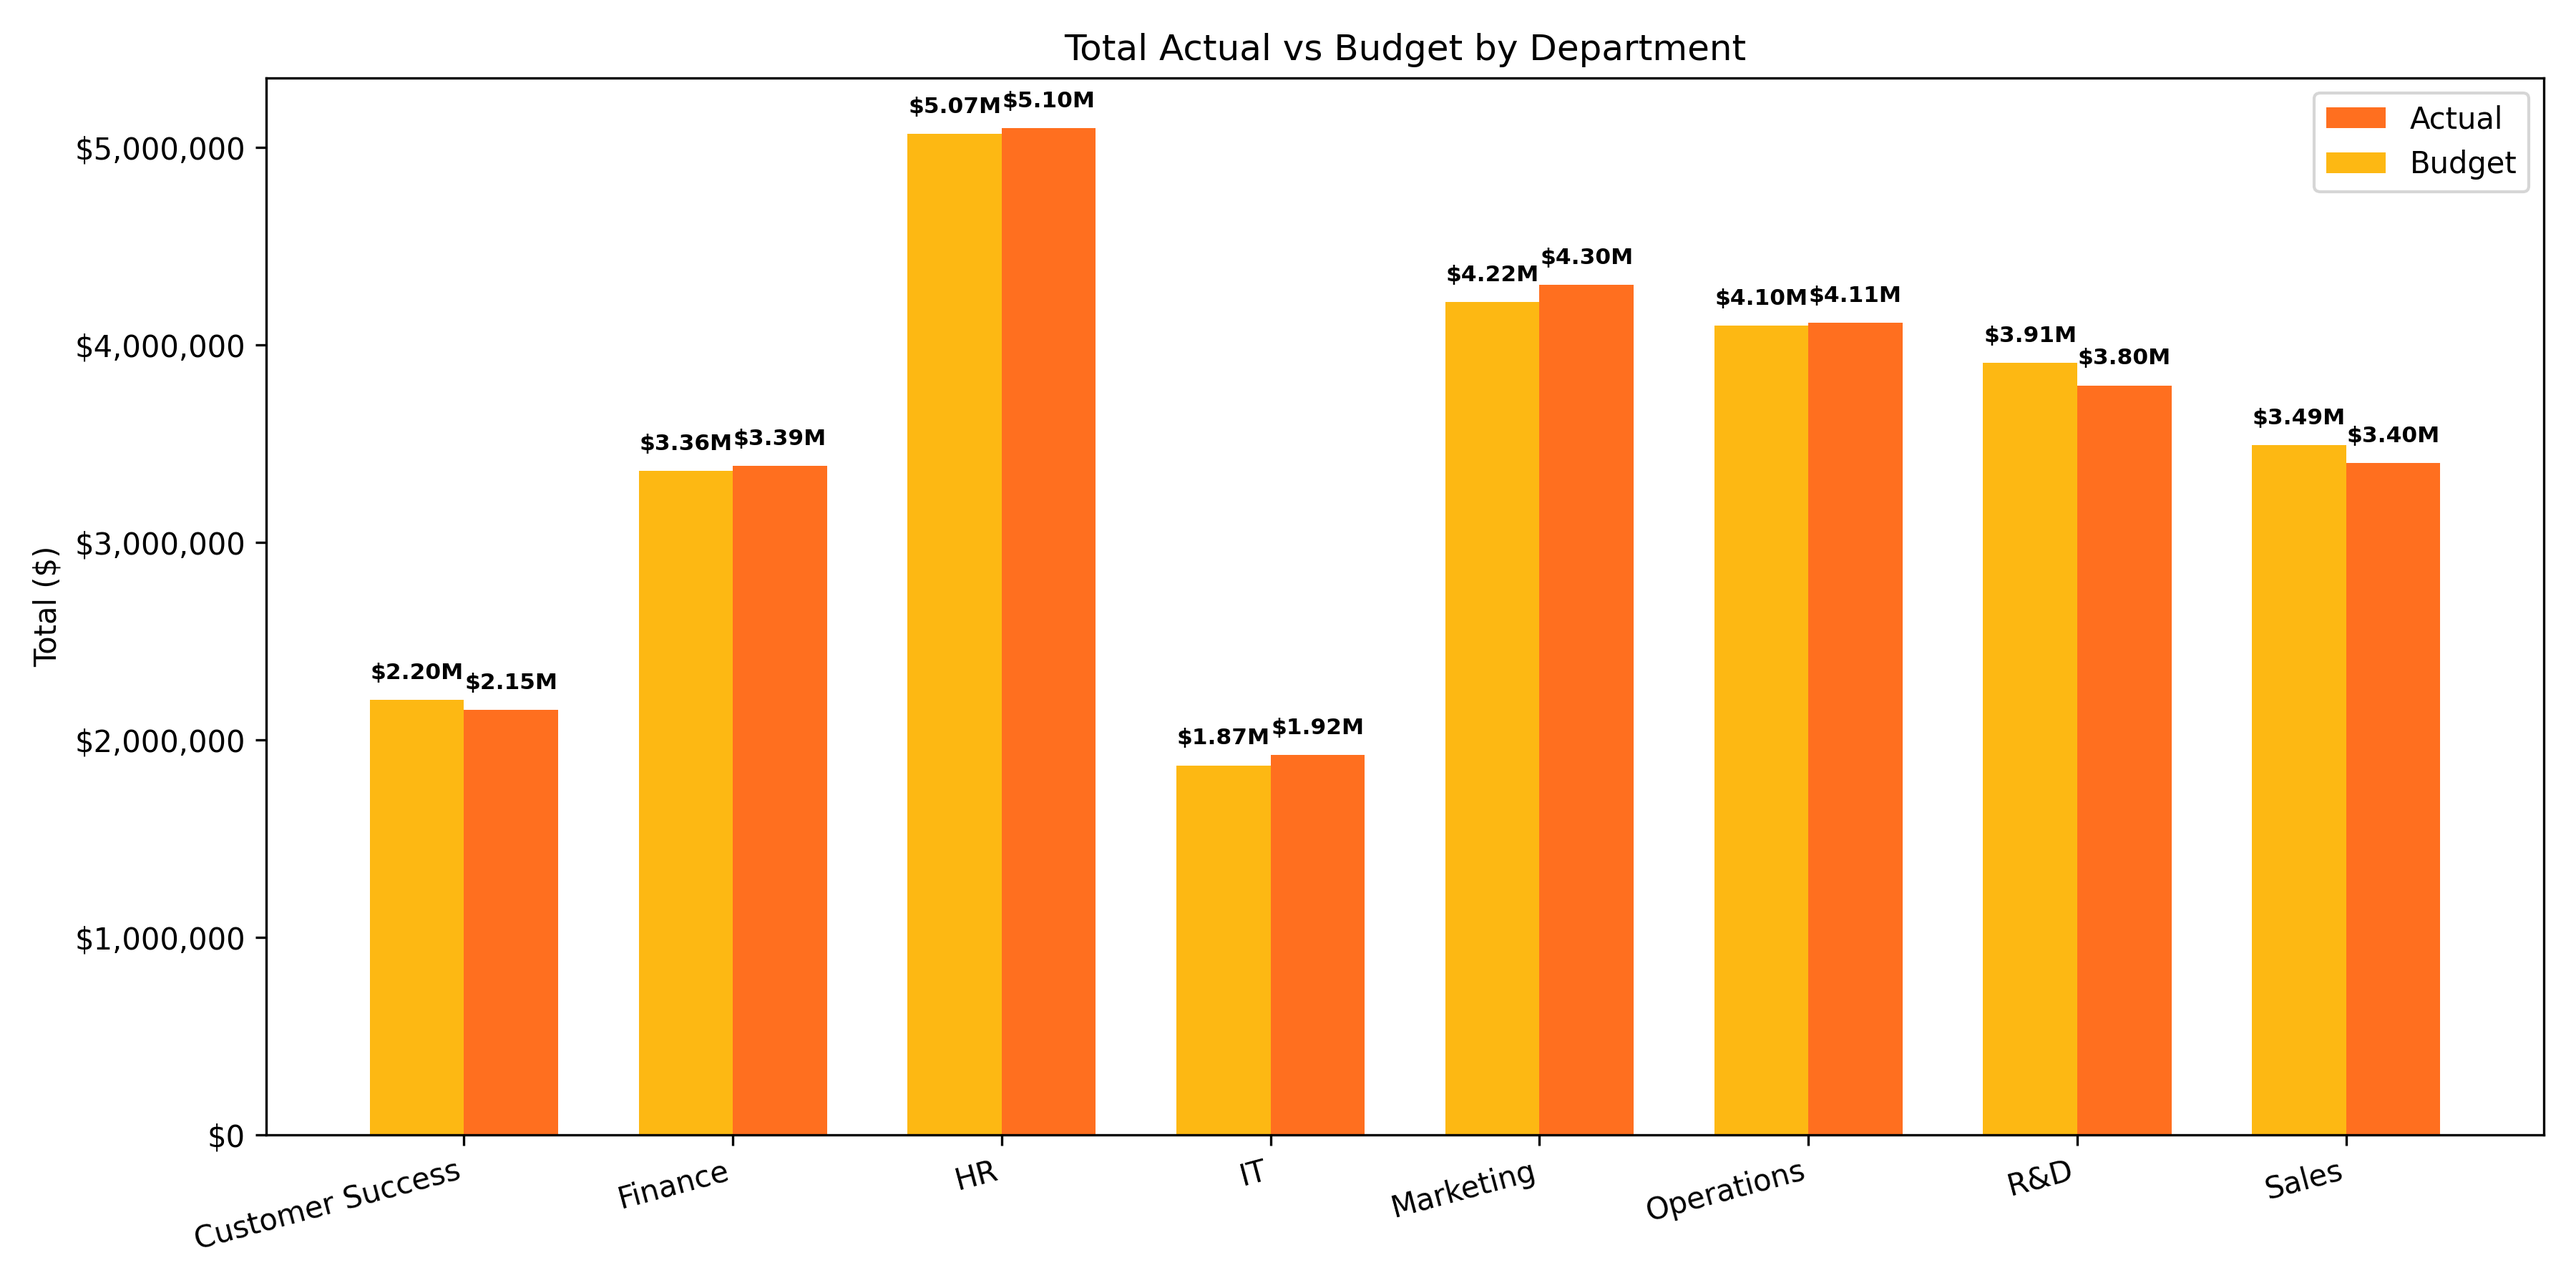
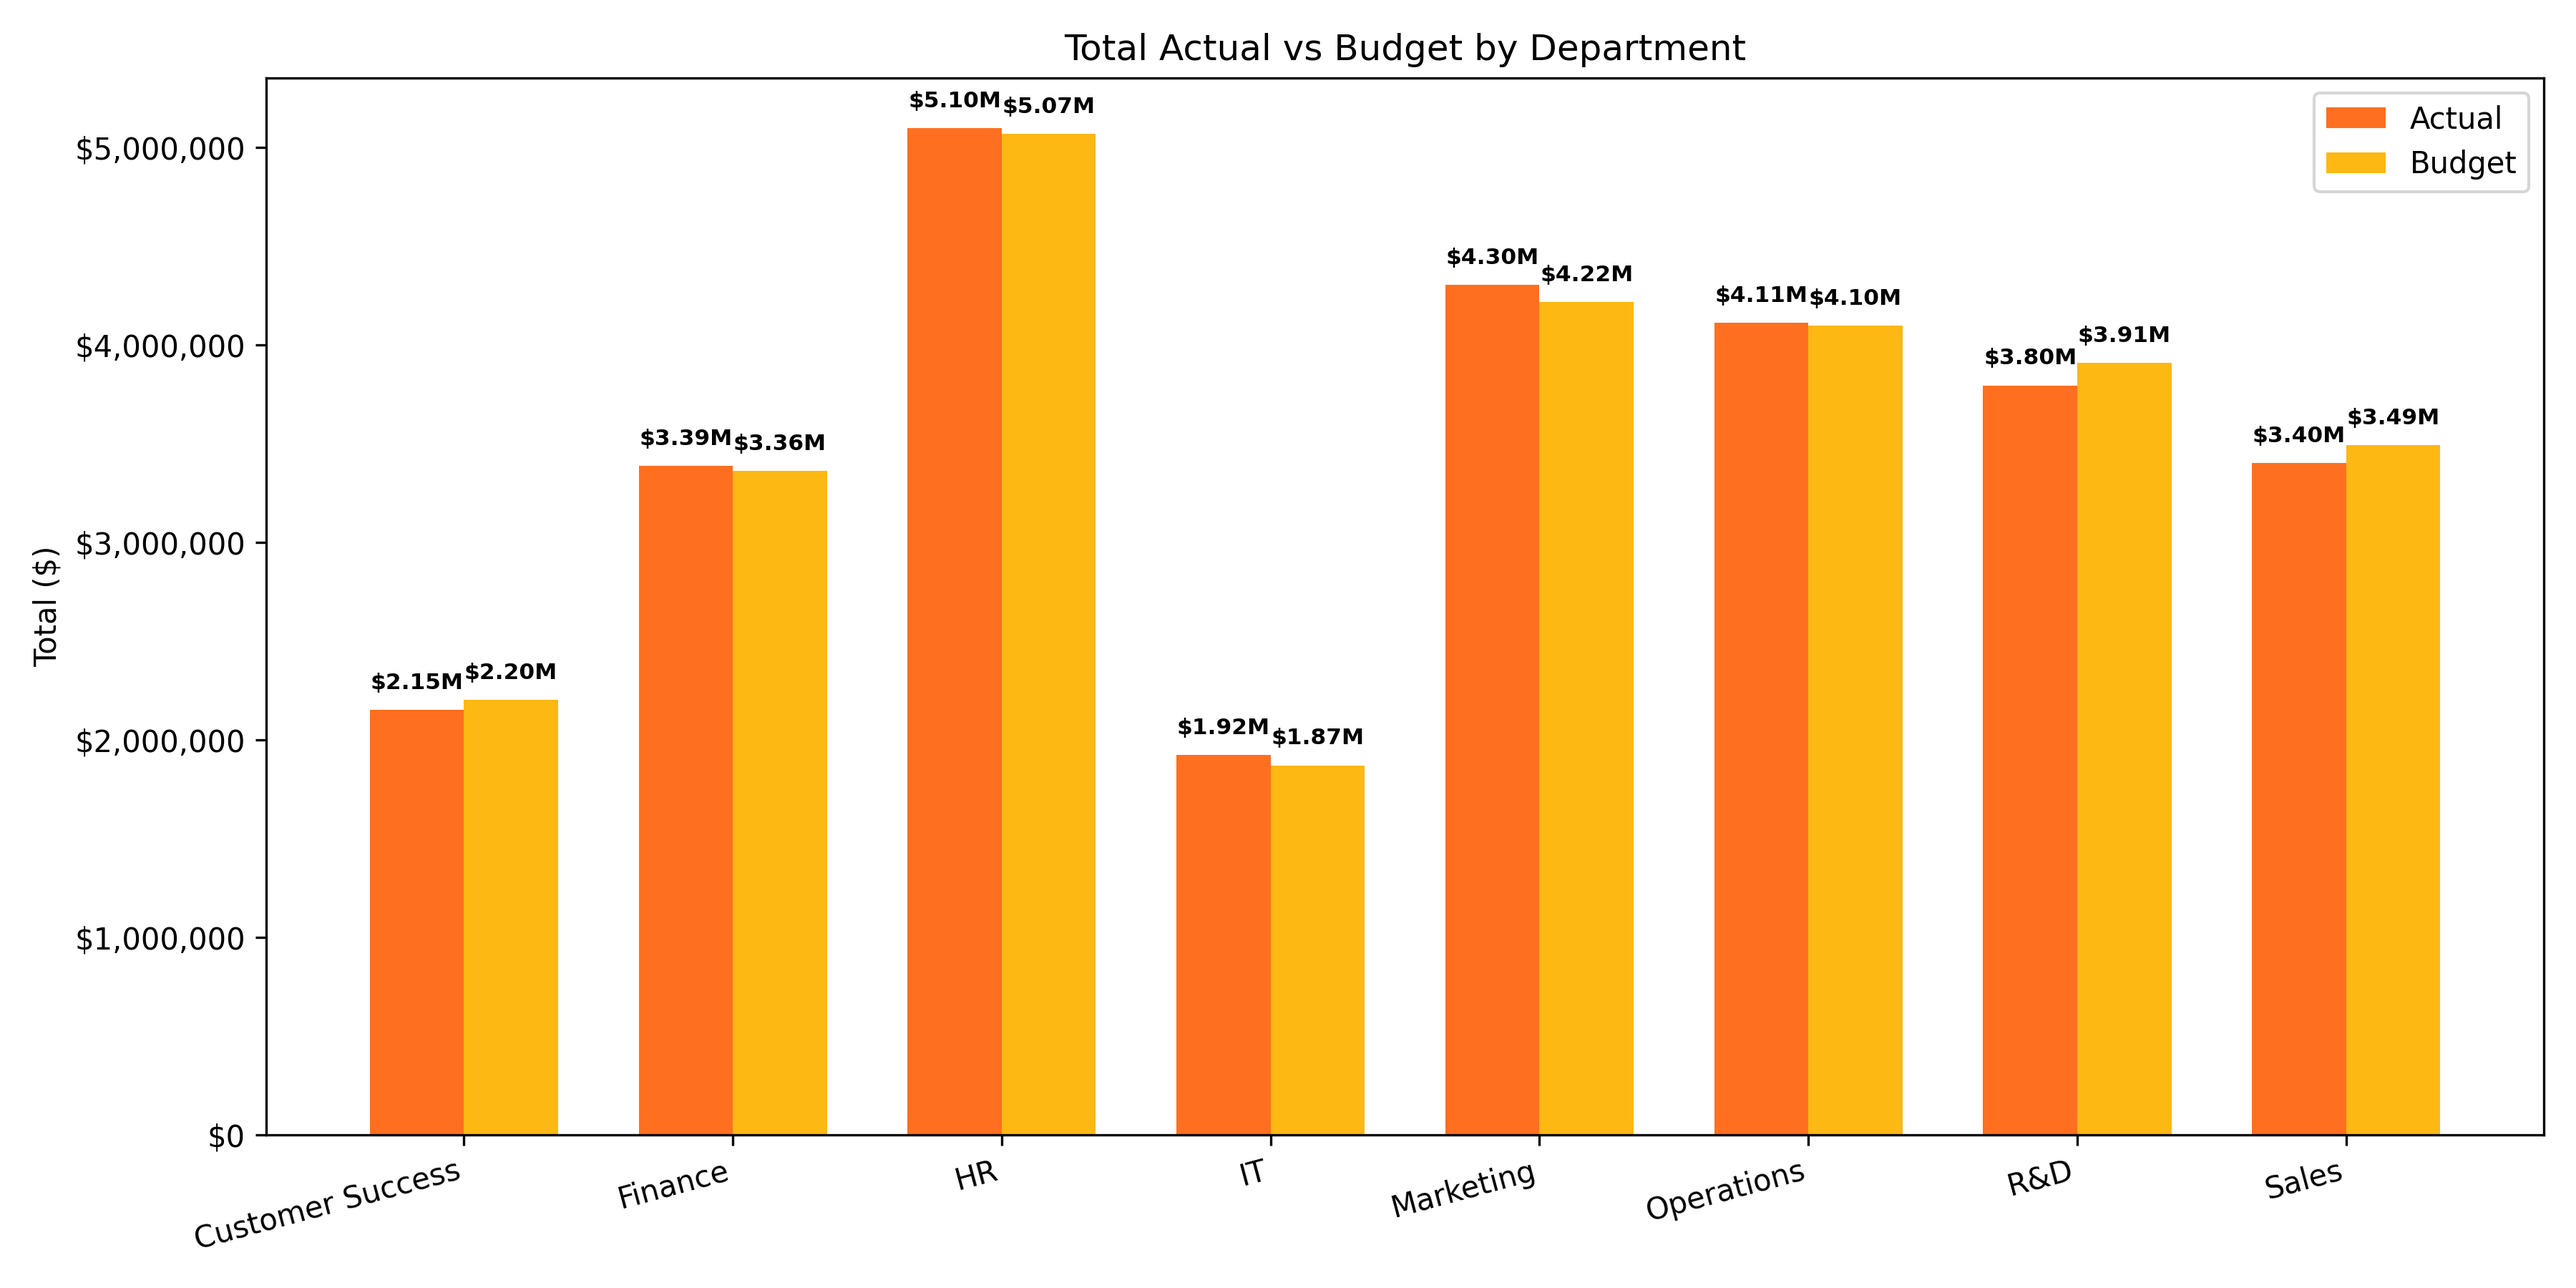
Fix Plot 1 bar order and update variance_analysis.py

diff --git a/variance_analysis.py b/variance_analysis.py
@@ -14,18 +14,19 @@ df = pd.read_csv("fpa_variance_data_monthly.csv")
 def format_millions_2dp(val: float) -> str:
     return f"${val / 1e6:.2f}M"
 
-# =================================================
-# PLOT 1 • Total Actual vs Budget by Department
-# =================================================
+# ===========================================
+# PLOT 1 : Total Actual vs Budget by Department
+# ===========================================
+
 dept_summary = df.groupby("Department")[["Budget", "Actual"]].sum().reset_index()
 x = np.arange(len(dept_summary))
 bar_w = 0.35
 
 plt.figure(figsize=(12, 6))
-b1 = plt.bar(x + bar_w/2, dept_summary["Actual"], width=bar_w,
-             label="Actual", color="#FF6F1F")
-b2 = plt.bar(x - bar_w/2, dept_summary["Budget"], width=bar_w,
-             label="Budget", color="#FDB813")
+b1 = plt.bar(x - bar_w/2, dept_summary["Actual"], width=bar_w, 
+             label="Actual", color="#FF6F1F")  # Actual = left (orange)
+b2 = plt.bar(x + bar_w/2, dept_summary["Budget"], width=bar_w, 
+             label="Budget", color="#FDB813")  # Budget = right (yellow)
 
 ax = plt.gca()
 ax.yaxis.set_major_formatter(mtick.FuncFormatter(lambda x, _: f'${int(x):,}'))
@@ -34,9 +35,11 @@ plt.ylabel("Total ($)")
 plt.title("Total Actual vs Budget by Department")
 plt.legend()
 
+# Annotate bars
 for bar in (*b1, *b2):
     h = bar.get_height()
-    plt.annotate(format_millions_2dp(h), (bar.get_x() + bar.get_width()/2, h),
+    plt.annotate(format_millions_2dp(h),
+                 (bar.get_x() + bar.get_width()/2, h),
                  xytext=(0, 7), textcoords="offset points",
                  ha='center', fontsize=7.5, weight='bold')
 
